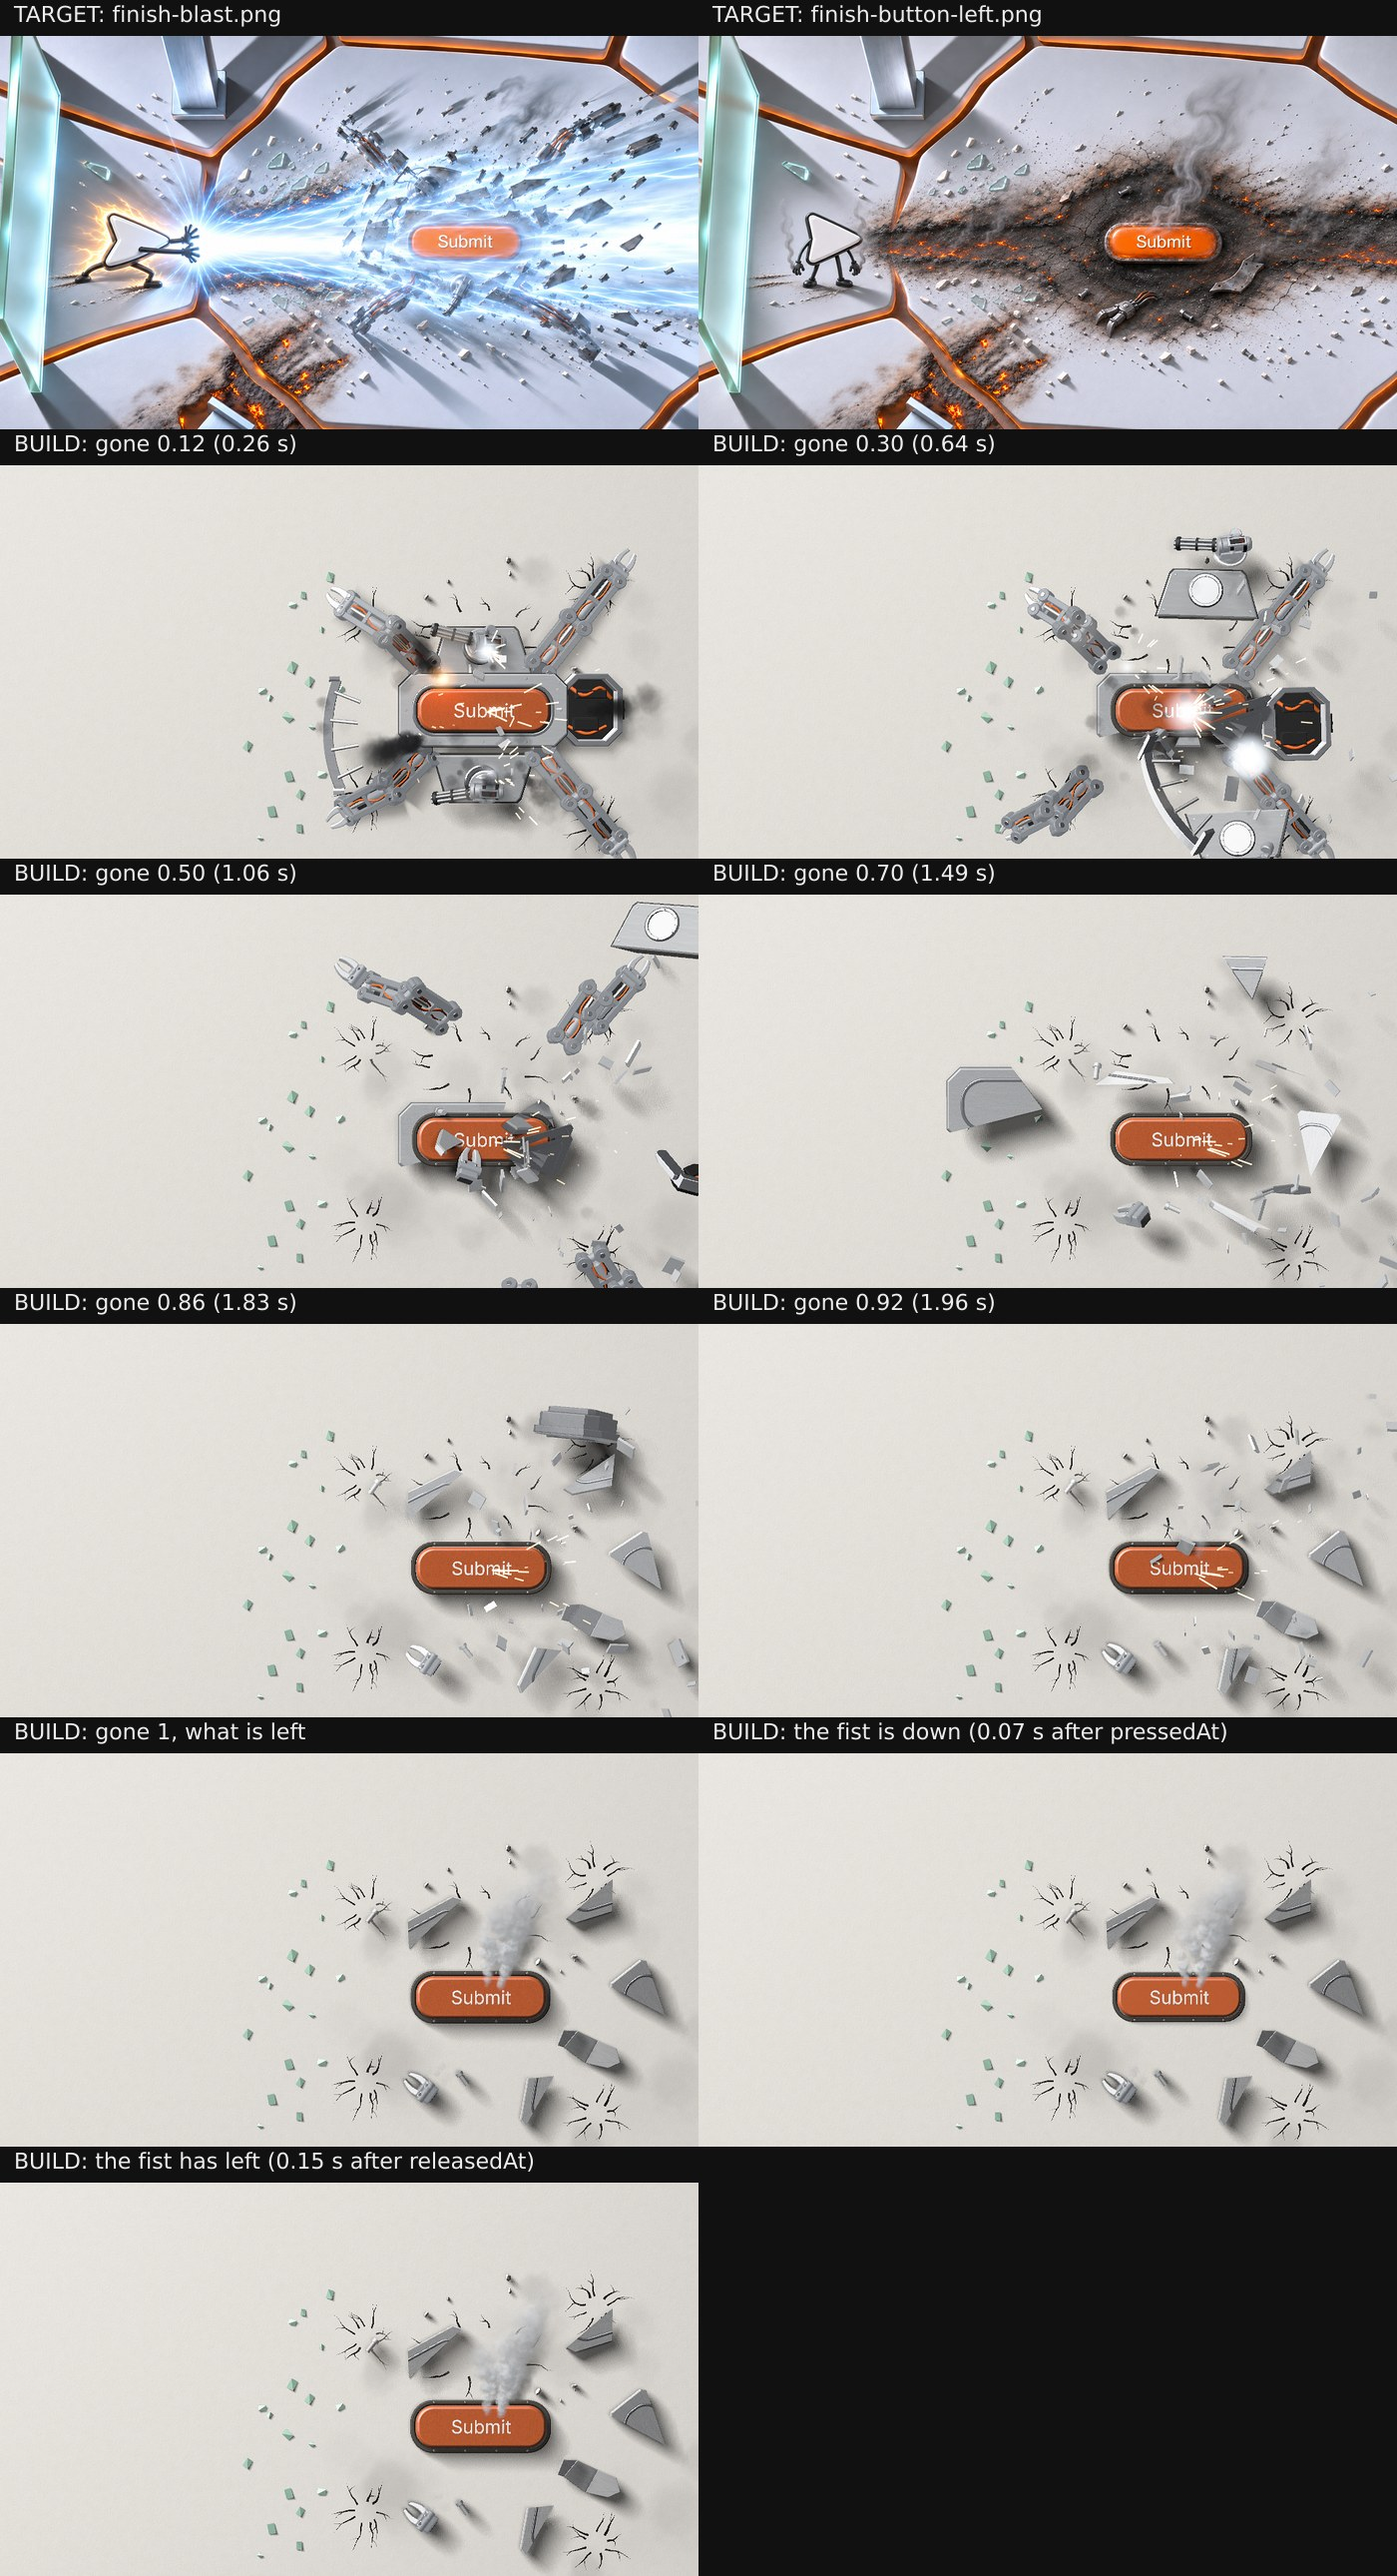
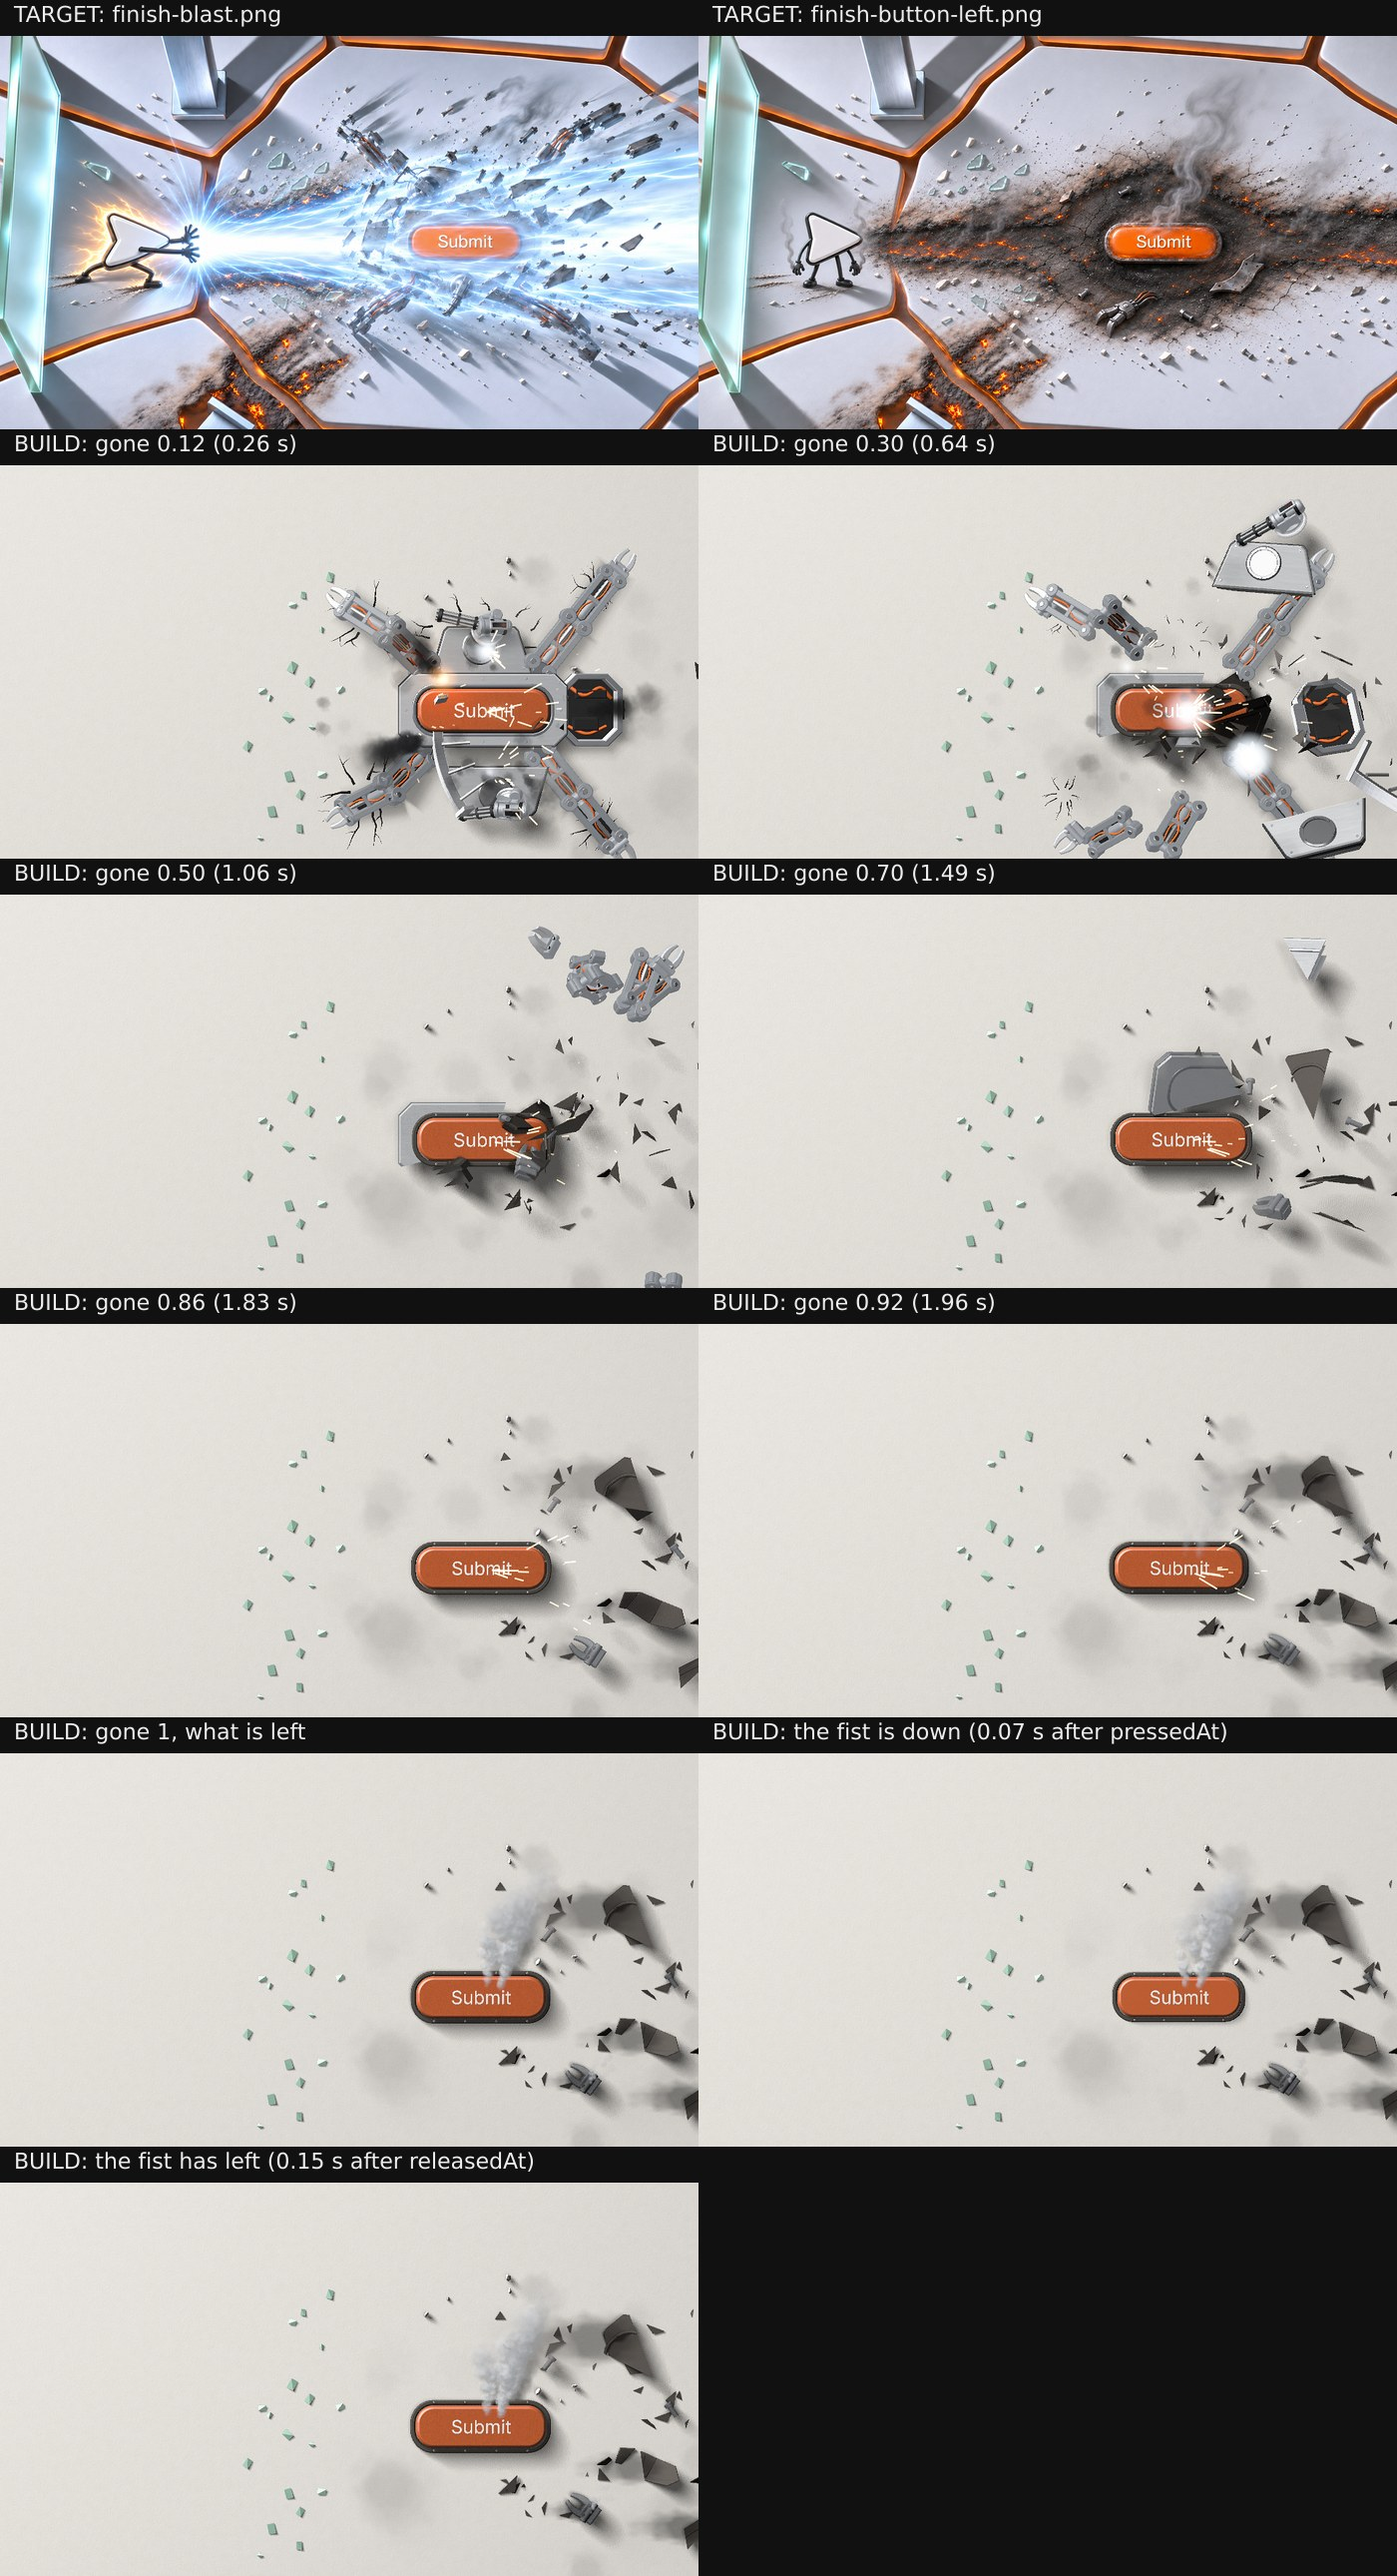
Boss look: the wreck seen on the real page beside the approved pictures, notes

diff --git a/src/boss/look1/events.ts b/src/boss/look1/events.ts
@@ -17,7 +17,7 @@ export const EVENTS = {
   'turret-off': { on: 'beaten', at: FALL.off[0], seconds: 0, sound: 0.9, note: 'the cannon is blown off over beaten 0 to 0.4 (0.4 s of the 1.0 s fall), the glass bursts from 0.05' },
   'boss-fall': { on: 'beaten', at: FALL.drop[1], seconds: 0.7, sound: 0.8, note: 'the body drops from beaten 0.3 and hits the ground on its belly at 0.7; dust and a short settle follow' },
   'finish-fire': { on: 'gone', at: 0, seconds: 0, sound: 2.1, note: 'the parts are torn off down the beam from gone 0.02; the hull comes apart in seven pieces from gone 0.28; the beam and its light are drawn by the finish' },
-  'boss-gone': { on: 'gone', at: 1, seconds: 2.13, sound: 1, note: 'the last piece is out of the picture by gone 0.98; the button, its rim, four torn plates, a claw, a bent plate and two bolts stay' },
+  'boss-gone': { on: 'gone', at: 1, seconds: 2.13, sound: 1, note: 'the last piece is out of the picture by gone 0.98; the button, its rim and the burnt wreck stay, all of it downrange of the button' },
   'button-down': { on: 'gone', at: GONE.button[1], seconds: 1.92, sound: 0.4, note: 'the bare button is on the ground at gone 0.9; the fight sounds it later, at boss-gone + 1.4 s, when the look shows nothing new' },
   'finish-press': { on: 'pressedAt', at: 0, seconds: 0, sound: 0.3, note: 'the button goes down under the fist in 0.07 s and stays down while the fist is on it; it springs back only from boss.releasedAt' }
 } as const

diff --git a/pipeline/change002/bosslook.md b/pipeline/change002/bosslook.md
@@ -33,9 +33,17 @@ The eight parts of the brief:
 
 Targets: `references/approved-002/finish-blast.png` and `finish-button-left.png`. Sheet: `proof/bosslook/gone.jpg`, the two targets on top, then gone 0.12, 0.30, 0.50, 0.70, 0.86, 0.92, 1, the fist down, the fist gone. The beam, its light, the arrow and the scorched ground are not mine and are not in the sheet.
 
-(a) Coming apart, `boss.gone` 0 to 1 (2.13 s on the live site, STATED): a machine torn off a button that stays whole. `GONE` in `pose.ts` gives each part its span: shield 0.02 to 0.6, guns from 0.05 and 0.10, wings from 0.08 and 0.14, legs from 0.20 to 0.36, the bay from 0.22, the hull from 0.28 in seven pieces, one every 0.06, the last one out at 0.98. A part first goes to its side of the beam, then down it (`FLY`: 2700 units far, 1100 wide, 120 high), tumbling. While the beam is on, every part keeps a floor of light of 0.42 of its own colour (`BEAMLIT`), so a tilted plate stays light grey. Scraps (an instanced mesh, three for each chunk of the level), small pops and sparks fill the gaps. The button slides to `LEFT` (960, 650, the fight's FALLEN; MEASURED equal by test) over gone 0.02 to 0.92 and turns level.
+(a) Coming apart, `boss.gone` 0 to 1 (2.13 s on the live site, STATED): a machine torn off a button that stays whole. `GONE` in `pose.ts` gives each part its span: shield 0.02 to 0.6, guns from 0.05 and 0.10, wings from 0.08 and 0.14, legs from 0.20 to 0.36, the bay from 0.22, the hull from 0.28 in seven pieces, one every 0.06, the last one out at 0.98. Every part leaves along the beam at once and fans out to its own side of it as it goes (`FLY`: 2700 units far, 420 to the side at once and 0.42 more for each unit travelled, 120 high), tumbling. No part is given any travel toward the arrow: the step back and the round burst of the hull were taken out at the Builder's word (01:35Z). While the beam is on, every part keeps a floor of light of 0.42 of its own colour (`BEAMLIT`). The button slides to `LEFT` (960, 650, the fight's FALLEN; MEASURED equal by test) over gone 0.02 to 0.92 and turns level.
 
-(b) What is left at gone 1: the button with a thin scorched rim (19 px wider than the button), four torn hull plates at 0.8 of their size, a bent plate, a claw and two bolts, all flat, all within 215 page px of the button's middle (`LEFT.plates`, `LEFT.lie`), none on the line the arrow walks (it kneels at 820, 650; STATED by b_boss_builder). A pale column of smoke about two button heights tall drifts up from the button's top right. The wide scorch with embers is the arena's (STATED by the Builder).
+(b) What is left at gone 1, all of it downrange of the button along the line of the blast (`view.scorch`, else `view.finish`, else plus x; it does not follow the arrow when the arrow walks: MEASURED by test). Places are along the blast and across it, page px from the button's middle (`LEFT` in `pose.ts`):
+- the button, whole, level, face up, with a thin scorched rim (19 px wider than the button);
+- four torn hull plates of four sizes, 0.92, 0.6, 0.44 and 0.3 of their size, at 192, 300, 436 and 650 px downrange, burnt (the scorched steel), each tilted so that one edge is under the ground;
+- a bent plate (burnt), a claw and two bolts (dark steel) at 92 to 262 px downrange, the claw clear of the caption under the button;
+- small burnt shards, 64, 80 or 96 by level and 96 in the film (one instanced mesh), 4 to 19 px, thrown through the blast, each landing and staying, four in ten of them tilted into the ground; 16% lie beside the button, the rest from 136 to 780 px downrange in a fan half as wide as it is long;
+- soot: two soft dark sprites on the side of each plate, of the bent plate and of the claw that faced the blast.
+The crack stars under his feet now differ in size (0.7 to 1.5) and are gone by gone 0.42, so none is left where the scorch lies. A pale column of smoke about two button heights tall drifts up from the button's top right. The wide scorch with embers is the arena's (STATED by the Builder). The glass shards on the arrow's side are the shield's, from when he was beaten, and lie where the approved picture has glass.
+
+Seen on the real page (MEASURED, `proof/bosslook/real-finish.jpg`): a scratch branch from origin agent/merge55 (cc5abb86) with this branch merged and `LOOK1_ON` true (local, not pushed), the site's still tool, page boss, draft tier, beat `boss.finish` at 0.328, 0.388, 0.44, 0.5, 0.56 and beat `boss.press` at 0.25. The Submit button is upright, level and readable in all six frames. With `LOOK1_ON` true the button is drawn by this module alone (`src/pages/step4/index.ts` calls `drawRig` for the stand-in only when the look is off). The button that was seen upside down is the stand-in's cap: its turn is `rig.cap.rot` from `collapseRig` in `src/boss/body.ts`, the fight helper's code (STATED from reading; I did not run the page with the look off).
 
 (c) The fist: `buttonAt(view)` gives `{ x, y, w, h, rot, top, press }` in page px. The button goes down in 0.07 s from `view.boss.pressedAt` (9 model units deep, 4.5% smaller) and stays down for as long as `pressedAt` is set. It springs back with an overshoot over 0.38 s only from `view.boss.releasedAt`, a field the view does not carry today; the look reads it if it is there. So in the film the button stays down until the page turns (ruling of 00:41Z). MEASURED by test at 0.2, 0.45, 2 and 30 s after the blow, and with a release.
 
@@ -167,12 +175,12 @@ The ms are the software renderer's, about 100 times slower than a real card, so 
 - All four feet in the air in 5 to 9% of frames on a diagonal while turning. A step lasts about 0.06 s at 190 px a second, so it does not read as a hop, but the bar was two feet down always.
 - The forming works and lands hard, but it does not yet feel as powerful as the brief asks: no camera shake is mine to give, the flash at the landing is small on a pale ground.
 - Additive glows nearly vanish on the pale ground (MEASURED). The rings that must read (open flank, last flash) are drawn with normal blending instead.
-- The finish: the four plates that stay shrink to 0.8 of their size as they land, which shows at slow speed; one large piece goes up and left against the beam near gone 0.70; the thrown button skids from where he was beaten to FALLEN, 231 px in the film and up to about 340 px on the live site (STATED by b_boss_builder), and he turns level on the way, nearly half a turn in the film. Never seen in one frame with the arrow's beam, the scorch or the arena: UNKNOWN how they sit together.
+- The finish: the four plates that stay shrink to their lying size in the first half of their flight, which shows at slow speed; the thrown button skids from where he was beaten to FALLEN, 231 px in the film and up to about 340 px on the live site (STATED by b_boss_builder), and he turns level on the way, nearly half a turn in the film. On the real page (MEASURED, `real-finish.jpg`) the wreck sits on the arena's scorch; against the approved picture the pieces are fewer and plainer (flat burnt steel, no torn edges or rivets, no glow of embers on them), the soot at each piece is a soft smudge and not a streak, and the largest plate lies on the pale floor above the scorch, not in it. The finish helper's beam was a flat bar at the draft tier in these frames: UNKNOWN how the pieces read against its final look.
 - The shadow is matched to the pillars' by numbers only (see the table).
 - Draw calls: 116 to 146 for the boss alone. The parts that never move against each other could be joined into fewer meshes; not done.
 - Levels and tiers: the three live levels thin out the thrown chunks, the puffs of smoke, the scraps and the lamps (low 10, 40, 2; medium 18, 90, 5; high 26, 150, 8); the film draws 26, 150, 10 at every tier and the site's finishing does the rest. The solid shapes are the same at every level. The harness rendered every sheet at the draft tier; renders at the higher film tiers are UNKNOWN, not run.
 - Darts: not drawn by the look (left as today). The flattened cursor: nothing found missing, but I did not render it beside the boss; UNKNOWN.
-- The whole suite, MEASURED at 01:12Z on this branch after the merge of 1178a395 (329 s): 2211 passed, 38 failed in 9 files, 17 skipped; `tests/bosslook-pose.test.ts` 13 of 13. None of the failing files is mine: `config` (26), `boss-fight` (3), `boss-closer-acting` (3), `polish-turn2` (2), `audio-cues`, `site-loading`, `site-finish`, `site-finish-film`, `roughcut`. MEASURED: the ten failures in `boss-fight`, `boss-closer-acting`, `polish-turn2`, `audio-cues` and `site-loading` are the same ten on `origin/agent/b-boss` without my work. The other four files I did not run there; at 23:58Z they failed on the film's length (180.35 s over the 165 s the config allows), which is the base branch's. `tests/cut-of-build.test.ts` passed in this run (21 of 21), though the brief expects it red on branches.
+- The whole suite, MEASURED at 01:12Z on this branch after the merge of 1178a395 (329 s): 2211 passed, 38 failed in 9 files, 17 skipped; `tests/bosslook-pose.test.ts` 13 of 13 then, 14 of 14 now. None of the failing files is mine: `config` (26), `boss-fight` (3), `boss-closer-acting` (3), `polish-turn2` (2), `audio-cues`, `site-loading`, `site-finish`, `site-finish-film`, `roughcut`. MEASURED: the ten failures in `boss-fight`, `boss-closer-acting`, `polish-turn2`, `audio-cues` and `site-loading` are the same ten on `origin/agent/b-boss` without my work. The other four files I did not run there; at 23:58Z they failed on the film's length (180.35 s over the 165 s the config allows), which is the base branch's. `tests/cut-of-build.test.ts` passed in this run (21 of 21), though the brief expects it red on branches.
 
 ## The harness
 
